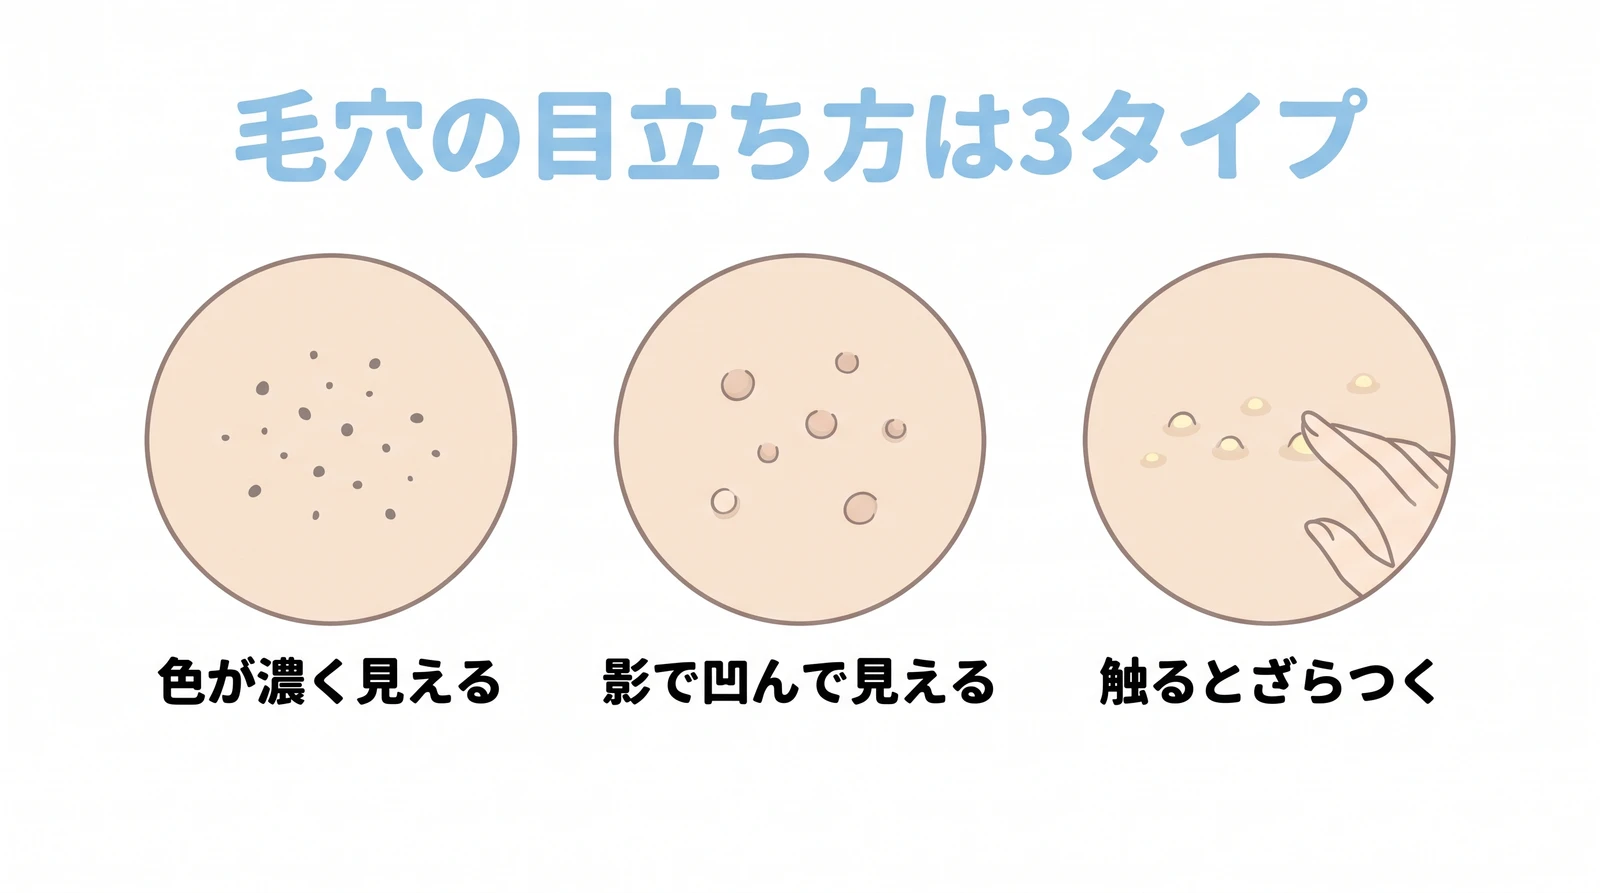
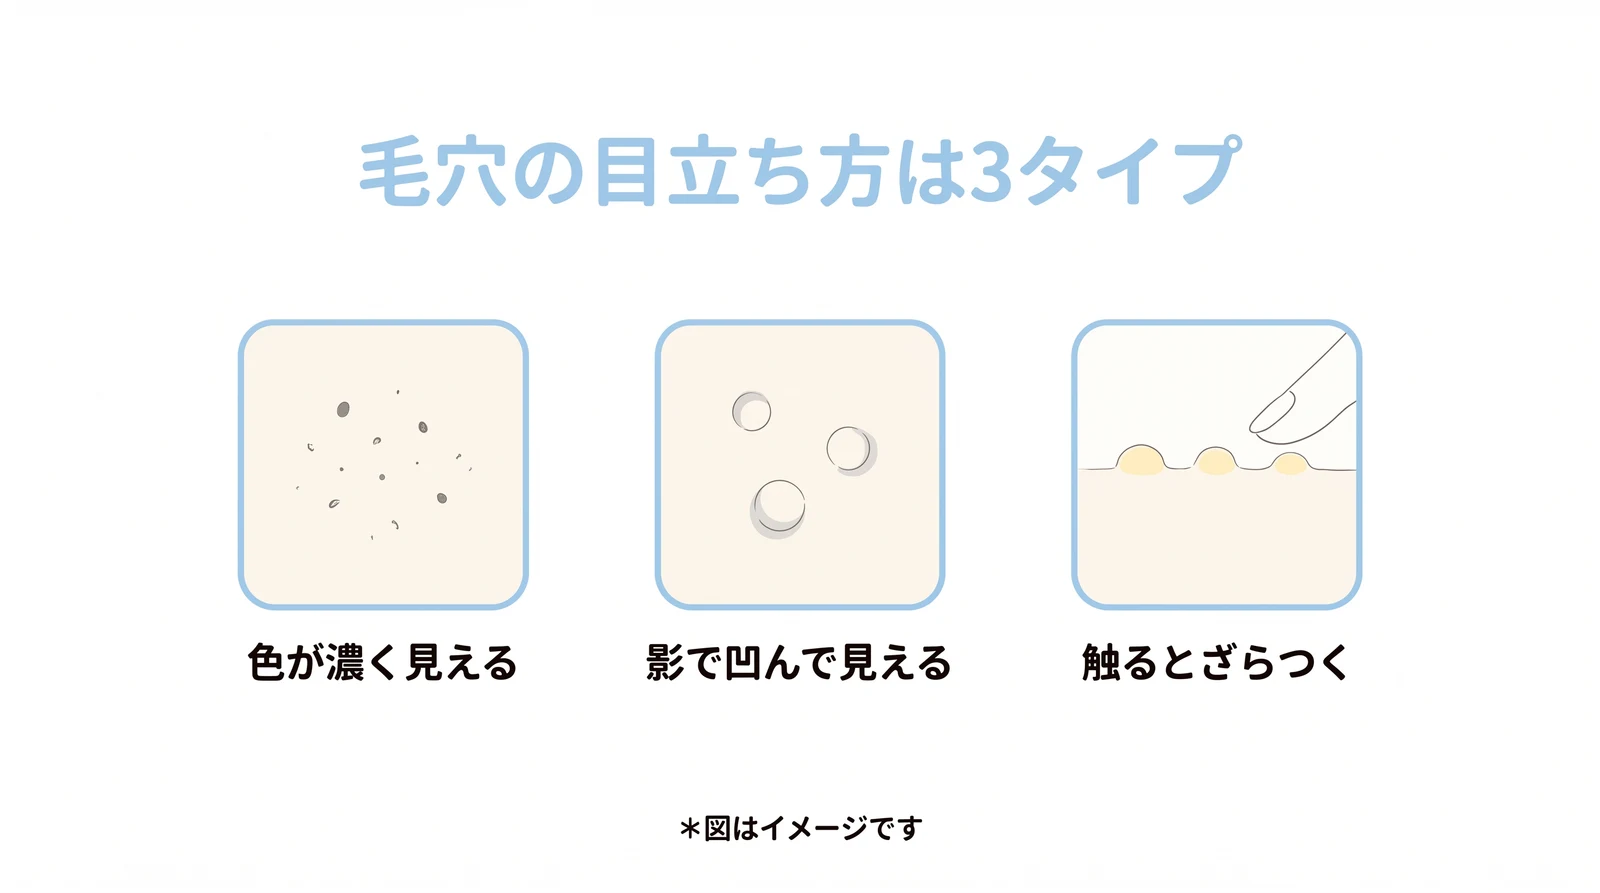
publish: orbis-cleansing-oil-pore-v2

diff --git a/2026/08/orbis-cleansing-oil-pore-v2.html b/2026/08/orbis-cleansing-oil-pore-v2.html
@@ -72,7 +72,7 @@
 <!-- /wp:buttons -->
 </div>
 <!-- /wp:group --><h2 style="font-size:24px; font-weight:600; margin:32px 0 16px; padding-bottom:8px; border-bottom:1px solid #eaeef2; line-height:1.3;">毛穴の目立ち方は3タイプ｜まず自分がどれかを見立てる</h2>
-<p style="margin:14px 0; line-height:1.7;"><img src="https://shun-toda.github.io/html-publish/2026/08/orbis-cleansing-oil-pore-v2/h2_01_%E6%AF%9B%E7%A9%B4_3%E3%82%BF%E3%82%A4%E3%83%97.webp" alt="毛穴の目立ち方を「色が濃く見える」「影で凹んで見える」「触るとざらつく」の3タイプに分けて、肌の見え方を丸いイラストで並べた図" loading="lazy" style="max-width:100%; height:auto; display:block; margin:16px auto; border-radius:6px;" /><br><em>毛穴の目立ち方は、色・影・ざらつきの3つに分けて見立てられます（当社整理）＊図はイメージです</em></p>
+<p style="margin:14px 0; line-height:1.7;"><img src="https://shun-toda.github.io/html-publish/2026/08/orbis-cleansing-oil-pore-v2/h2_01_%E6%AF%9B%E7%A9%B4_3%E3%82%BF%E3%82%A4%E3%83%97.webp" alt="毛穴の目立ち方を「色が濃く見える」「影で凹んで見える」「触るとざらつく」の3タイプに分けて、肌の見え方を3つの角丸パネルで並べた図" loading="lazy" style="max-width:100%; height:auto; display:block; margin:16px auto; border-radius:6px;" /><br><em>毛穴の目立ち方は、色・影・ざらつきの3つに分けて見立てられます（当社整理）＊図はイメージです</em></p>
 <p style="margin:14px 0; line-height:1.7;">毛穴の目立ち方は、<strong>色が濃く見える／影で凹んで見える／触るとざらつく</strong>の3つに分けて見立ててみると、考えが整理しやすくなります。同じ「毛穴が気になる」でも、見えている状態が違えば、クレンジングに求める働きも変わってくるためです。見立ての手がかりになるのは、明るい場所での見え方と、洗った直後の指先の感触の2つです。</p>
 <p style="margin:14px 0; line-height:1.7;">毛穴の種類がわかっただけでは、選ぶ基準までは決まりません。選び直しても変化を感じられない状態が続くとき、ずれているのは製品そのものより「どのタイプに向けた一本を選んだか」のほうかもしれません。まずは3つのどれに近いかを見立ててから、選び方の話へ進んでみましょう。</p>
 <div style="overflow-x:auto; margin:18px 0;"><table style="border-collapse:collapse; width:100%; font-size:14px;">
